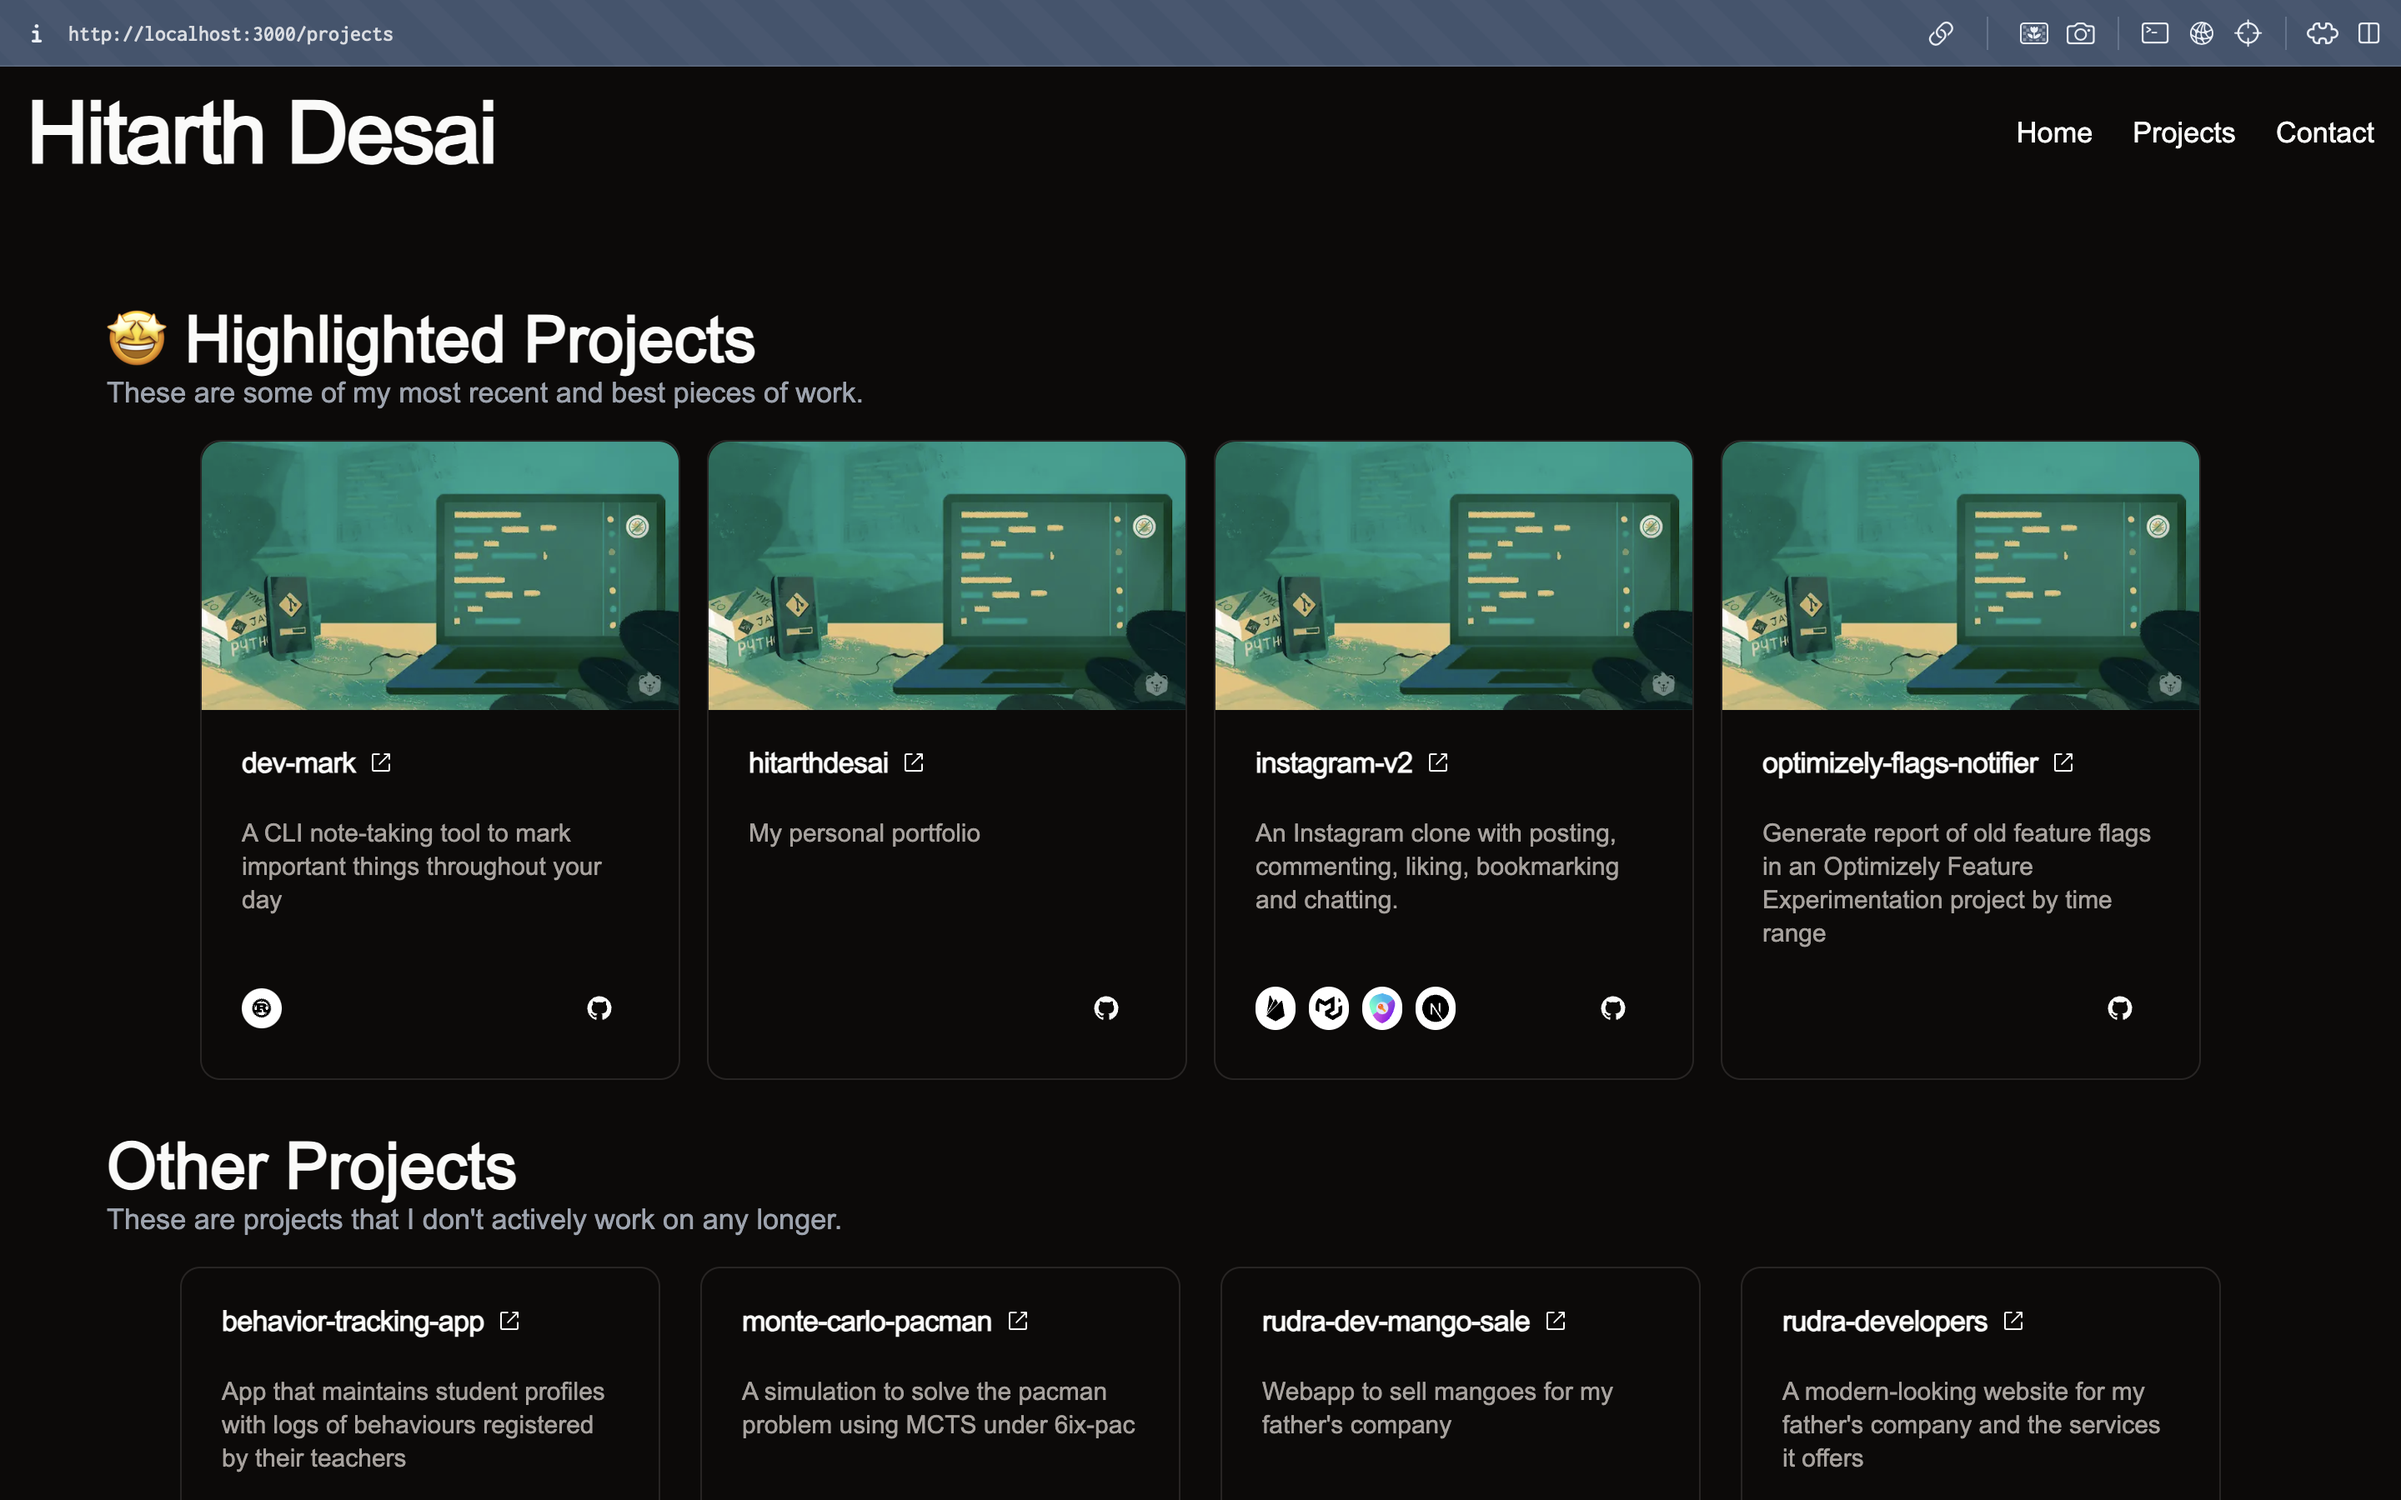
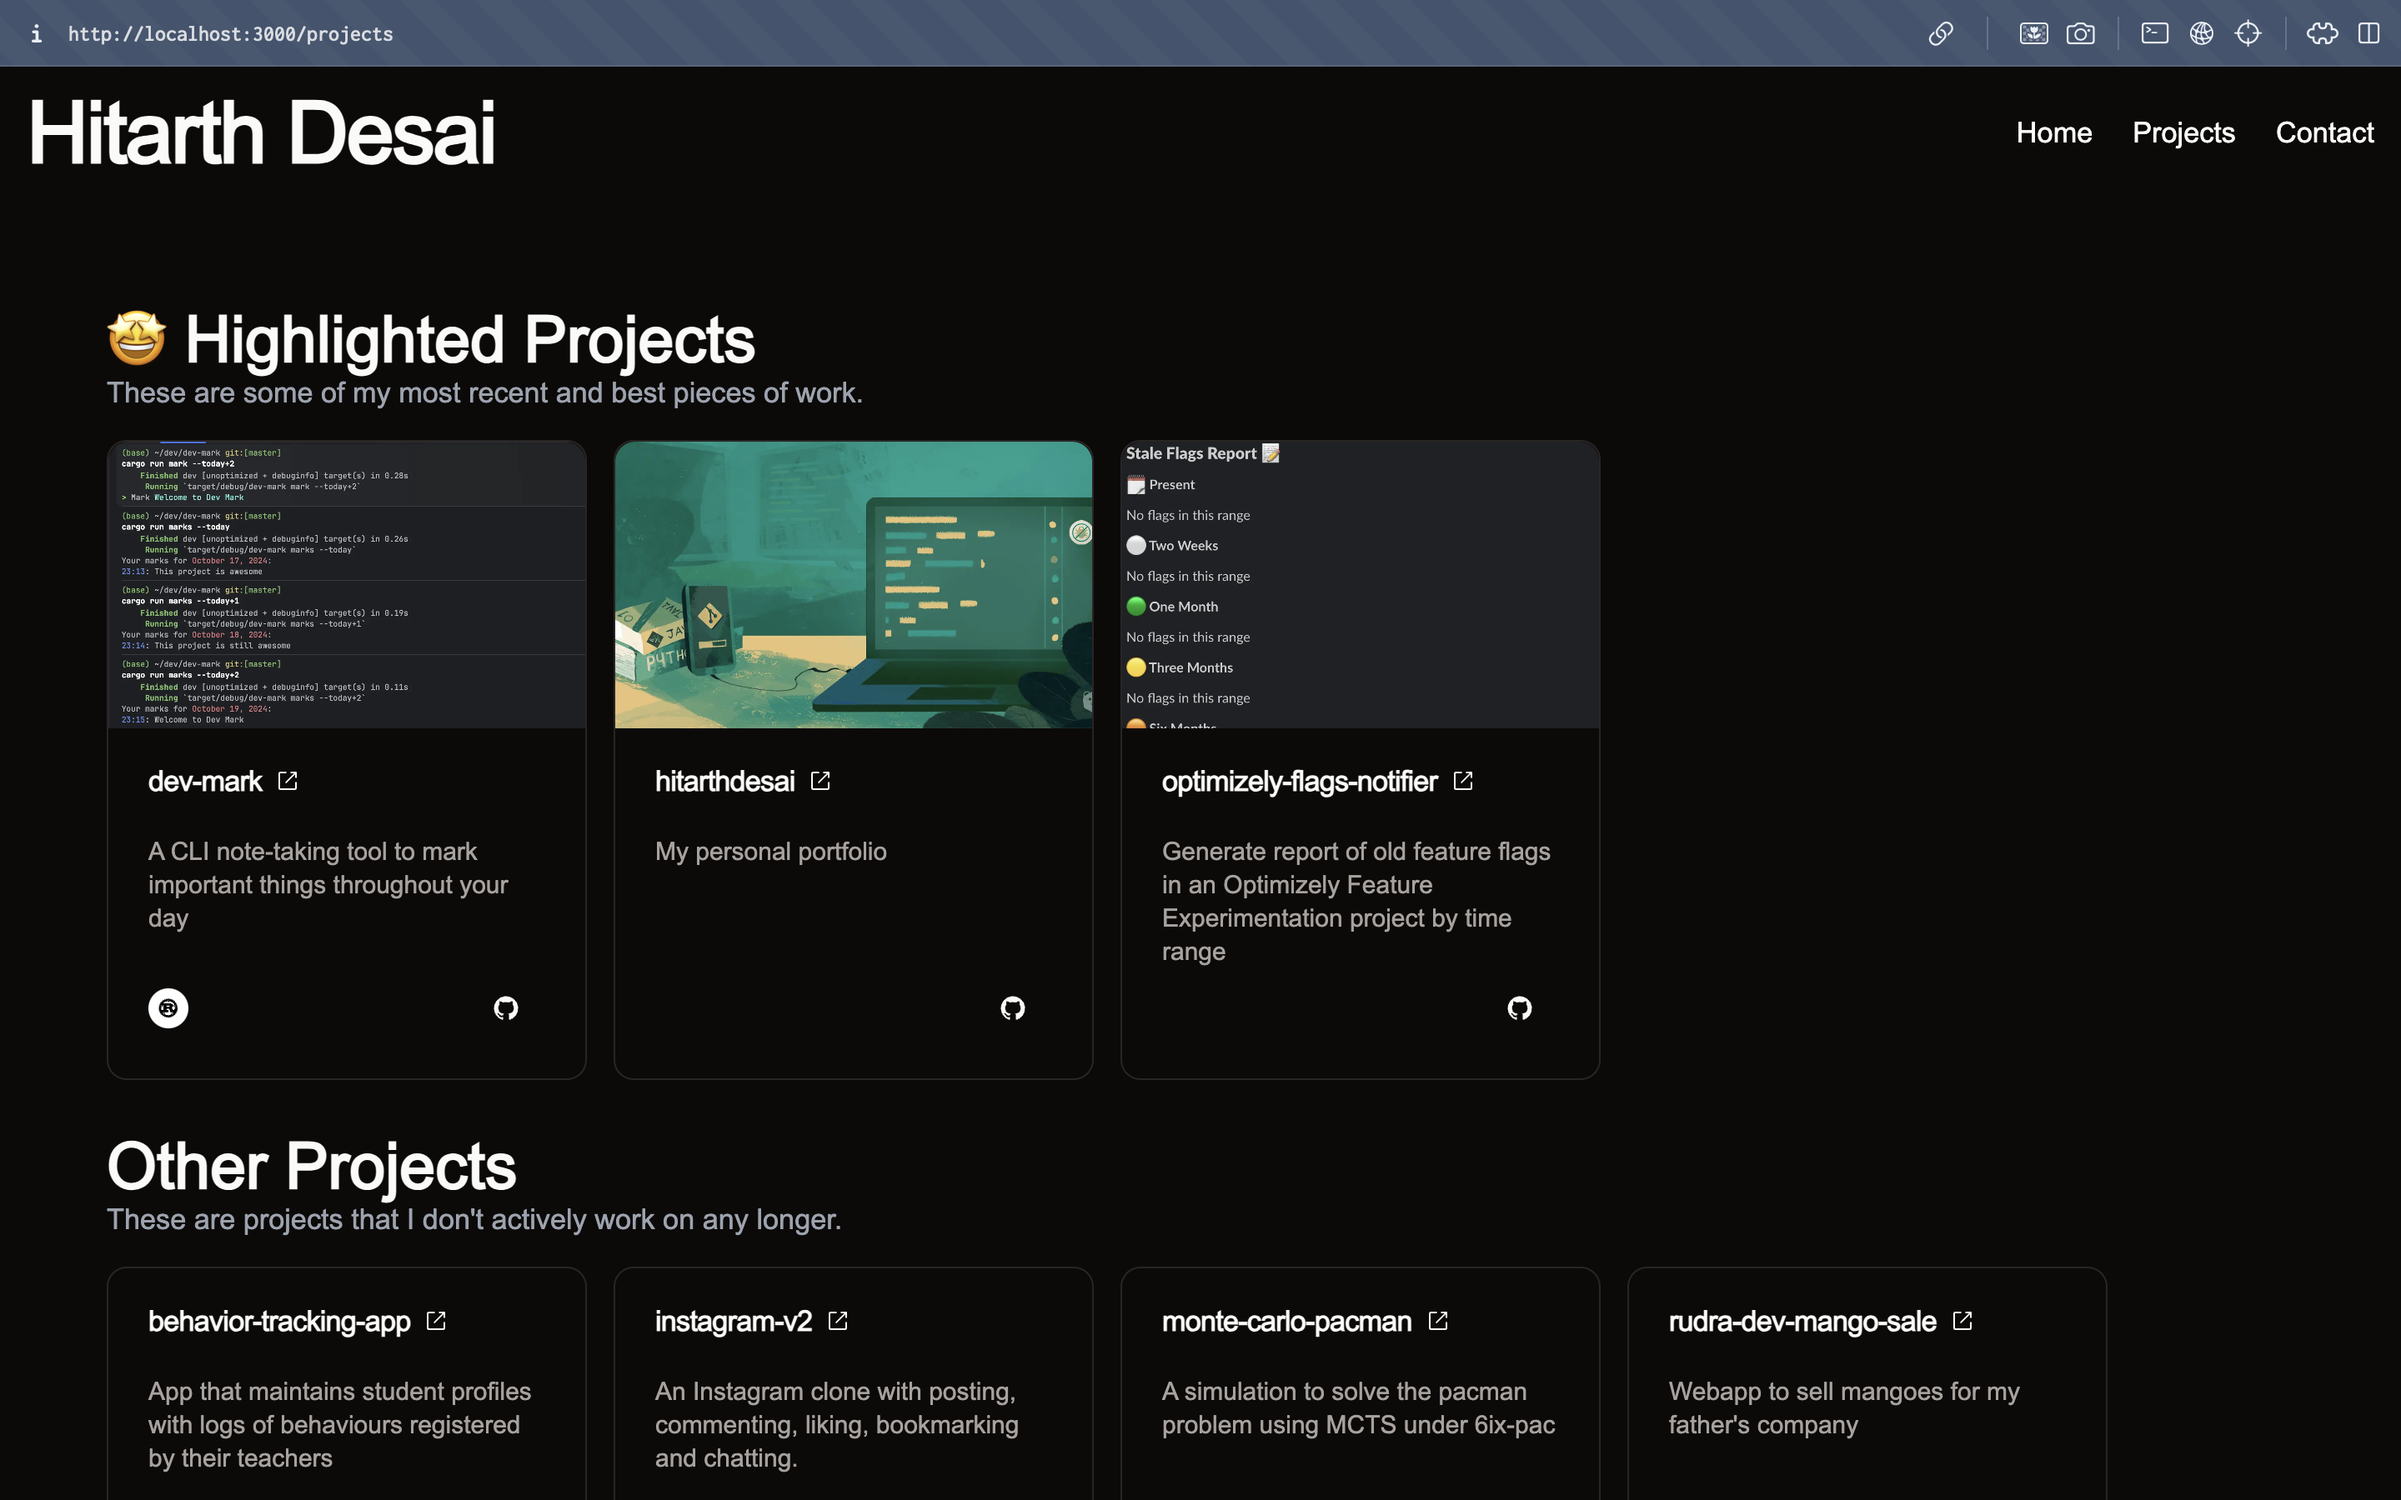
add dynamic thumbnail for projects

diff --git a/components/ProjectCard.tsx b/components/ProjectCard.tsx
@@ -14,6 +14,8 @@ import Image from "next/image";
 import { Tooltip, TooltipProvider } from "./ui/tooltip";
 import { TooltipContent, TooltipTrigger } from "@radix-ui/react-tooltip";
 import Link from "next/link";
+import { octokit } from "@/utils/getOctokit";
+import { getDownloadHrefByContentUrl } from "@/utils/getDownloadHrefByContentUrl.ts";
 
 type ProjectTopicsIconGroupProps = {
   topics: Project["topics"];
@@ -47,16 +49,27 @@ type ProjectCardProps = {
   project: Project;
 };
 
-export function ProjectCard({
-  project: { description, github_url, isHighlighted, name, topics },
+export async function ProjectCard({
+  project: {
+    description,
+    github_url,
+    isHighlighted,
+    name,
+    topics,
+    thumbnail_url,
+  },
 }: ProjectCardProps) {
   const shouldShowImage = isHighlighted;
+  const cardWidth = "w-72 min-w-72 max-w-72";
   const cardHeight = shouldShowImage
     ? "h-96 max-h-96 min-h-96"
     : "h-60 max-h-60 min-h-60";
-  const cardWidth = shouldShowImage
-    ? "w-72 min-w-72 max-w-72"
-    : "w-72 min-w-72 max-w-72";
+
+  const thumbnail_href = isHighlighted
+    ? await getDownloadHrefByContentUrl({
+        url: thumbnail_url,
+      })
+    : undefined;
 
   return (
     <Card
@@ -64,13 +77,16 @@ export function ProjectCard({
     >
       <div className="relative grow overflow-hidden">
         {shouldShowImage && (
-          <Image
-            src="/thumbnail.png"
-            alt={`Thumnail: ${name}`}
-            width={320}
-            height={172}
-            className="rounded-t-xl"
-          />
+          <div className="relative h-[172px] w-full overflow-hidden rounded-t-xl">
+            <Image
+              src={thumbnail_href ?? "/thumbnail-fallback.png"}
+              alt={`Thumbnail: ${name}`}
+              layout="fill"
+              objectFit="cover"
+              objectPosition="left top"
+              className="absolute"
+            />
+          </div>
         )}
         <CardTitle>
           <CardHeader>

diff --git a/components/Projects.tsx b/components/Projects.tsx
@@ -5,7 +5,7 @@ export async function Projects() {
   const { highlighted, others } = await getRepositories();
 
   return (
-    <main className="flex flex-col gap-8 p-10 md:p-16">
+    <main className="flex flex-col gap-8 p-4 sm:p-10 md:p-16">
       <section>
         <h1 className="text-2xl font-bold sm:text-3xl md:text-4xl">
           🤩 Highlighted Projects
@@ -13,7 +13,7 @@ export async function Projects() {
         <p className="text-gray-400">
           These are some of my most recent and best pieces of work.
         </p>
-        <div className="flex flex-row flex-wrap justify-center gap-4 pt-4">
+        <div className="flex flex-row flex-wrap items-center justify-center gap-4 pt-4 md:justify-normal">
           {highlighted.map((project) => (
             <ProjectCard key={project.name} project={project} />
           ))}
@@ -26,7 +26,7 @@ export async function Projects() {
         <p className="text-gray-400">
           These are projects that I don&apos;t actively work on any longer.
         </p>
-        <div className="flex flex-row flex-wrap justify-center gap-6 pt-4">
+        <div className="flex flex-row flex-wrap items-center justify-center gap-4 pt-4 md:justify-normal">
           {others.map((project) => (
             <ProjectCard key={project.name} project={project} />
           ))}

diff --git a/utils/getRepositories.ts b/utils/getRepositories.ts
@@ -27,7 +27,7 @@ export const getRepositories = async (): Promise<CategorizedProject> => {
   });
 
   const projects: Project[] = supportedRepos.map((repo) => {
-    const { name, topics: _topics, description, html_url } = repo;
+    const { name, topics: _topics, description, html_url, contents_url } = repo;
     const topics = new Set(_topics);
 
     topics.delete(Topic.Portfolio);
@@ -35,12 +35,14 @@ export const getRepositories = async (): Promise<CategorizedProject> => {
     const isHighlighted = topics.delete(Topic.Highlighted);
 
     const topicsArray = technologyTopicsSchema.parse(Array.from(topics));
+    const thumbnail_url = contents_url.replace("{+path}", "thumbnail.png");
     return {
       name,
       isHighlighted,
       topics: topicsArray,
       description,
       github_url: html_url,
+      thumbnail_url,
     };
   });
 

diff --git a/utils/getDownloadHrefByContentUrl.ts.ts b/utils/getDownloadHrefByContentUrl.ts.ts
@@ -1,0 +1,27 @@
+import { z } from "zod";
+import { octokit } from "./getOctokit";
+
+const fileHrefSchema = z.object({
+  download_url: z.string().url(),
+});
+
+type GetDownloadHrefByContentUrlProps = {
+  url: string;
+};
+
+export const getDownloadHrefByContentUrl = async ({
+  url,
+}: GetDownloadHrefByContentUrlProps): Promise<string | undefined> => {
+  try {
+    const { data: _data } = await octokit.request({
+      method: "GET",
+      url,
+    });
+
+    const data = fileHrefSchema.parse(_data);
+    return data.download_url;
+  } catch (error) {
+    console.error(error);
+    return undefined;
+  }
+};

diff --git a/schemas/project.ts b/schemas/project.ts
@@ -13,6 +13,7 @@ export const projectSchema = z.object({
   isHighlighted: z.boolean(),
   topics: technologyTopicsSchema,
   github_url: z.string().url(),
+  thumbnail_url: z.string().url(),
 });
 
 export type Project = z.infer<typeof projectSchema>;
